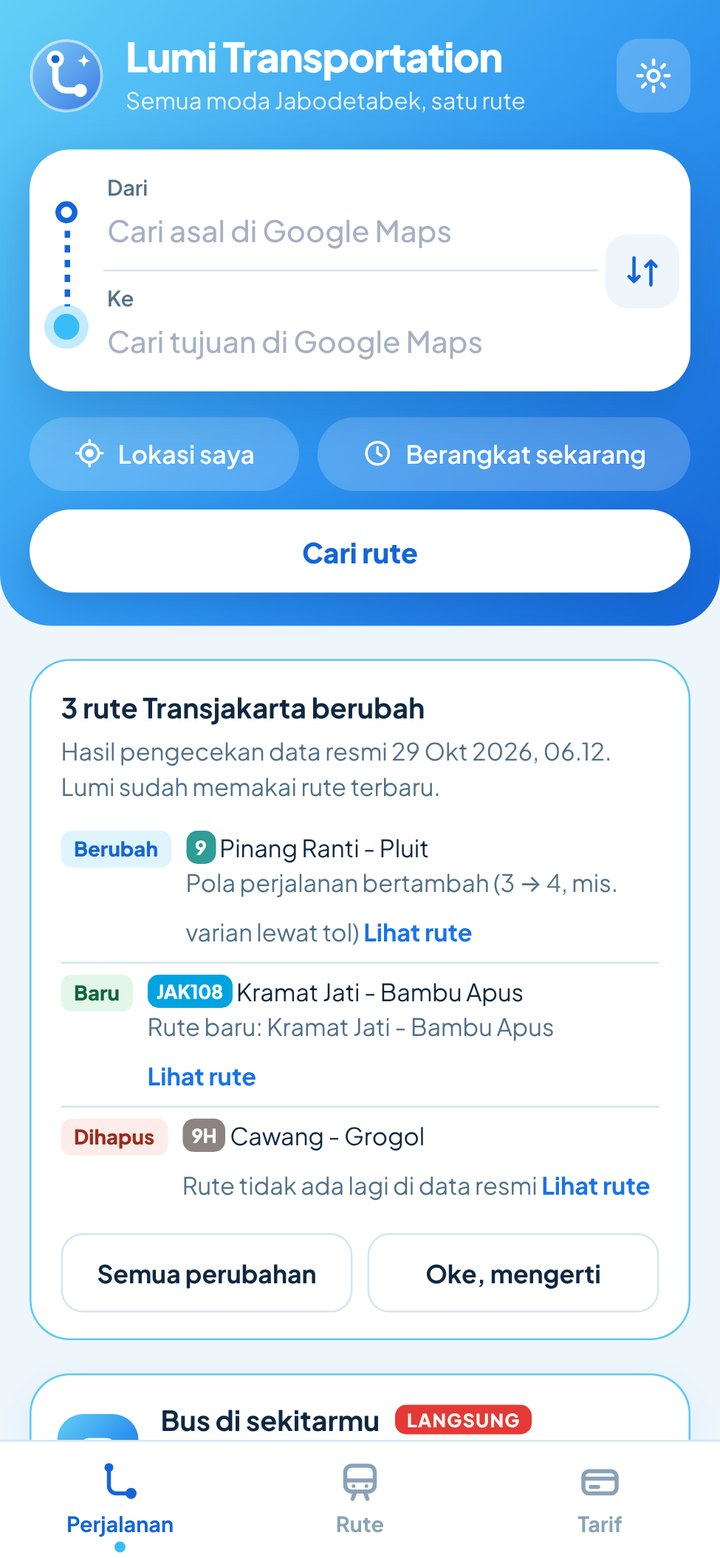
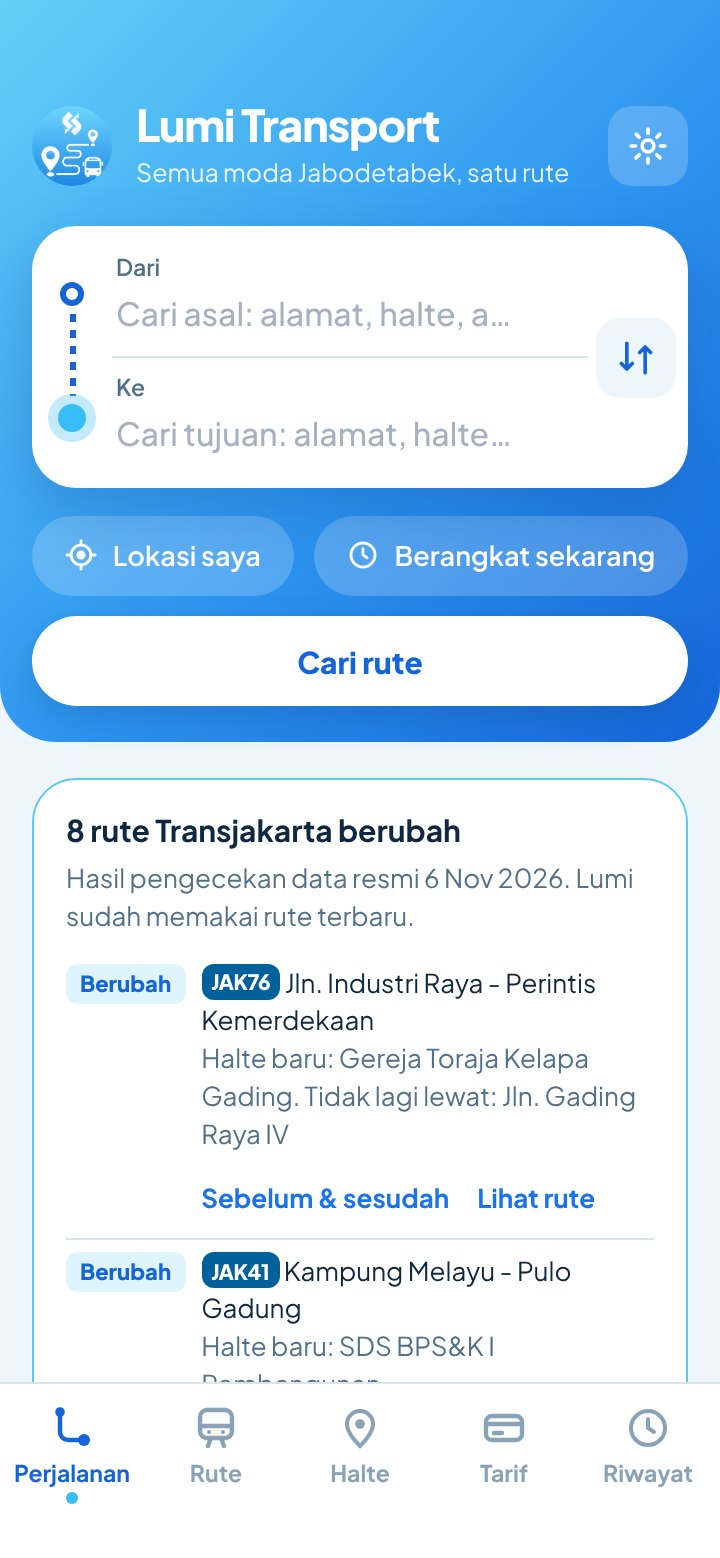
wip: tangkapan layar baru, sambutan & judul hasil tidak terjepit, peringatan tutup akurat, 2.13.4
Claude-Session: https://claude.ai/code/session_01MKApBtarXE7dqfSbVTEiD8

diff --git a/app/src/main/assets/www/js/engine.js b/app/src/main/assets/www/js/engine.js
@@ -793,15 +793,24 @@
     return out;
   };
 
+  /*
+   * Moda/kelompok yang TUTUP pada menit m. Satu kelompok hanya disebut tutup bila SEMUA rutenya tutup
+   * (dulu: satu rute wisata yang belum buka pukul 08.00 membuat "Transjakarta non-BRT" seolah tutup semua).
+   * Bus wisata (jam terbatas, bukan angkutan harian) tidak diumumkan.
+   */
   Planner.prototype.closedAt = function (m) {
-    var seen = {}, out = [];
+    var g = {}, order = [];
     this.lines.forEach(function (l) {
-      if (l.noStops || openAt(l, m)) return;
-      var k = l.mode === "TJ" ? (l.brt ? "Transjakarta BRT (selain koridor 1–14)" : "Transjakarta non-BRT") :
-        l.mode === "MIKRO" ? "Mikrotrans (kecuali JAK36/47/52/75)" : MODES[l.mode].label;
-      if (!seen[k]) { seen[k] = 1; out.push(k); }
+      if (l.noStops) return;
+      var code = String(l.code || "").toUpperCase().replace(/\W/g, "");
+      var k = l.mode === "TJ" ? (l.main ? "" : l.brt ? "Transjakarta BRT (selain koridor 1–14)" : l.cat === "WISATA" ? "" : "Transjakarta non-BRT") :
+        l.mode === "MIKRO" ? (/^JAK(36|47|52|75)$/.test(code) ? "" : "Mikrotrans (kecuali JAK36/47/52/75)") : MODES[l.mode].label;
+      if (!k) return;
+      if (!g[k]) { g[k] = { n: 0, shut: 0 }; order.push(k); }
+      g[k].n++;
+      if (!openAt(l, m)) g[k].shut++;
     });
-    return out;
+    return order.filter(function (k) { return g[k].shut === g[k].n; });
   };
 
   var api = { Planner: Planner, MODES: MODES, RAIL: RAIL, hav: hav, openAt: openAt, isNight: isNight, ojolMotor: ojolMotor, ojolCar: ojolCar, ojolMinutes: ojolMinutes, useFares: useFares, fares: function () { return FARES; } };

diff --git a/app/src/main/assets/www/css/app.css b/app/src/main/assets/www/css/app.css
@@ -539,6 +539,9 @@ details.adv summary { font-weight: 700; font-size: 13.5px; color: var(--ink-soft
 .ob-oem > span { display: block; font-size: clamp(12.5px, 1.9vh, 14.5px); color: #A9C1E0; margin-top: 4px; line-height: 1.4; }
 .ob-oem-btn { margin-top: clamp(8px, 1.4vh, 12px); padding: clamp(8px, 1.4vh, 11px) 14px; border-radius: 12px; border: 1.5px solid rgba(232, 196, 106, .6); color: #F0C35C; font-weight: 700; font-size: clamp(13px, 1.9vh, 14.5px); }
 @media (max-height: 600px) { .ob-feats span:not(.ob-ico), .ob-foot { display: none; } }
+/* Layar sambutan tidak boleh tertimpa tombol Mulai: daftar fitur menyusut lalu bisa digulir. */
+.ob-feats { overflow-y: auto; overscroll-behavior: contain; }
+@media (max-height: 820px) { .ob-feats { gap: 10px; margin-top: 12px; } .ob-hero { width: 84px; height: 84px; margin: 4px auto 10px; } .ob-lead { font-size: 13.5px; } }
 
 .ob-list { gap: clamp(7px, 1.3vh, 12px); margin-top: clamp(10px, 2vh, 20px); overflow-y: auto; }
 .ob-item { padding: clamp(8px, 1.4vh, 14px) 12px; }
@@ -864,7 +867,8 @@ html[lang="en"] .st-body.is-now .st-place::after { content: "You are here"; }
 .res-fav svg path { fill: none; stroke: currentColor; stroke-width: 2; stroke-linejoin: round; }
 .res-fav.on { background: #FFF6DB; border-color: #F5D06B; color: #9A6B00; }
 .res-fav.on svg path { fill: #F5B90B; stroke: #E0A800; }
-.res-head h2 { flex: 1; min-width: 0; }
+.res-head { flex-wrap: wrap; row-gap: 6px; }
+.res-head h2 { flex: 1 1 200px; min-width: 0; overflow-wrap: anywhere; }
 
 /* Kartu tarif: penanda warna sejajar dengan judul */
 .info-card h3 { align-items: center; line-height: 1.25; gap: 10px; }

diff --git a/release-notes/v2.13.4.md b/release-notes/v2.13.4.md
@@ -1,0 +1,35 @@
+## ✦ Lumi Transport 2.13.4
+
+**Unduh:** `LumiTransport-v2.13.4.apk` di bagian *Assets* di bawah. Pasang langsung di atas versi sebelumnya.
+
+Rilis perapian dari hasil audit kode.
+
+### 🗺 Data rute & halte
+
+- **Data rute resmi Transjakarta kini ikut di dalam aplikasi.** Sebelumnya 120 dari 251 rute bawaan belum punya daftar halte sampai data resmi berhasil diunduh. Sekarang semua rute langsung lengkap sejak pertama dibuka, termasuk di HP yang gagal mengunduh
+- **Titik halte & stasiun lebih tepat**: koreksi dari OpenStreetMap dipakai langsung di data bawaan (mis. stasiun LRT Pancoran, Matraman, Kuningan, JIS yang sebelumnya meleset 300–650 m)
+- Peringatan "tidak beroperasi" hanya muncul bila memang seluruh moda itu tutup. Sebelumnya, satu bus wisata yang belum buka pukul 08.00 membuat "Transjakarta non-BRT" seolah tutup
+
+### 💸 Tarif
+
+- Semua tarif kini ada di satu file data dan **bisa diperbarui dari repo tanpa rilis baru**. Data yang diunduh diperiksa dulu sebelum dipakai
+
+### 🛡 Lebih tahan gangguan
+
+- Bila server peta (OpenFreeMap) tidak menjawab, Lumi otomatis beralih ke peta OpenStreetMap standar
+- Server pihak ketiga (rute jalan kaki, pencarian alamat) yang sedang bermasalah diistirahatkan sebentar supaya aplikasi tidak menunggu terus dan langsung memakai cadangan
+- Umpan perubahan rute dan koreksi titik halte dari GitHub diperiksa bentuk & ukurannya sebelum disimpan
+- **Laporkan masalah** kini melampirkan galat terakhir (aplikasi & crash Android), supaya bug lebih cepat diperbaiki
+
+### 🎨 Tampilan
+
+- Layar sambutan tidak lagi tertimpa tombol *Mulai* di layar yang pendek
+- Judul hasil pencarian tidak lagi terjepit menjadi satu kata per baris
+- Ikon bertema (Android 13+) untuk layar utama
+
+### 🔧 Catatan teknis
+
+- APK hanya dibangun lewat Gradle (R8); `build.sh` dihapus. Android lint aktif di CI
+- CI menjelajahi semua layar di Chrome dan gagal bila ada galat JavaScript atau teks yang belum diterjemahkan ke Inggris
+- Semua GitHub Actions dikunci ke SHA commit
+- `versionCode` **21304**

diff --git a/CHANGELOG.md b/CHANGELOG.md
@@ -10,6 +10,13 @@
 
 ---
 
+## ✦ v2.13.4 — 10 November 2026 / 10 November 2026
+
+- 🇮🇩 Perapian hasil audit: GTFS resmi Transjakarta & koreksi titik OSM ikut di aplikasi (semua rute langsung lengkap), tarif satu sumber yang bisa diperbarui dari repo, data jarak jauh divalidasi, peta & layanan pihak ketiga punya cadangan, laporan bug melampirkan galat terakhir, sambutan & judul hasil tidak terjepit, ikon bertema. CI: hanya Gradle, lint, uji semua layar + terjemahan, action dikunci SHA. `versionCode` **21304**
+- 🇬🇧 Audit tidy-up: official Transjakarta GTFS and OSM stop fixes bundled in the app (every route complete out of the box), single-source fares updatable from the repo, remote data validated, fallbacks for the map and third-party services, bug reports include recent errors, welcome screen and results title no longer cramped, themed icon. CI: Gradle only, lint, all-screens + translation check, actions pinned to SHAs. `versionCode` **21304**
+
+---
+
 ## ✦ v2.13.3 — 10 November 2026 / 10 November 2026
 
 - 🇮🇩 Perbaikan hasil audit: lokasi lebih tepat (cache lama tidak dipakai, GPS + jaringan bersamaan) dan posisi di bus langsung dikirim terus-menerus; semua waktu memakai WIB; daftar bus langsung tidak melompat saat digulir; ganti bahasa tidak menghapus pencarian; teks "tiap jam" → "berkala"; alat debug mati di rilis. CI: uji mesin rute dengan pemeriksaan, uji asap emulator, rilis wajib bertanda tangan resmi. `versionCode` **21303**
